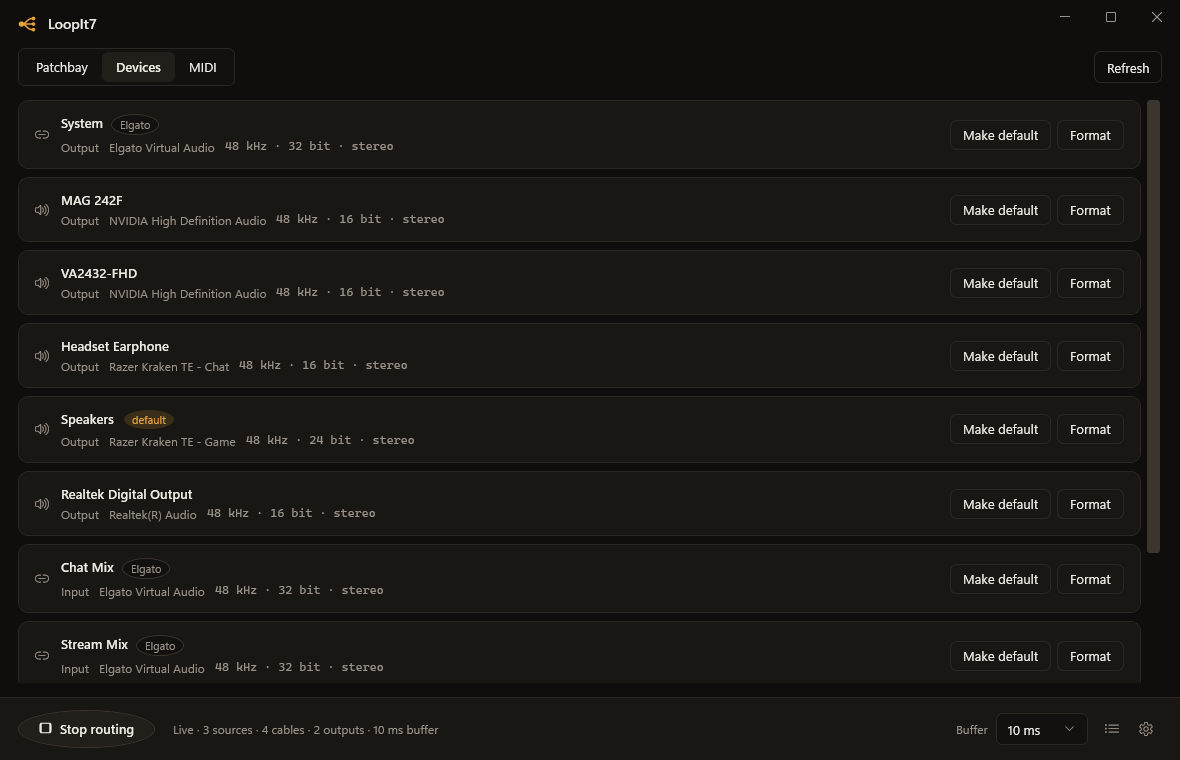
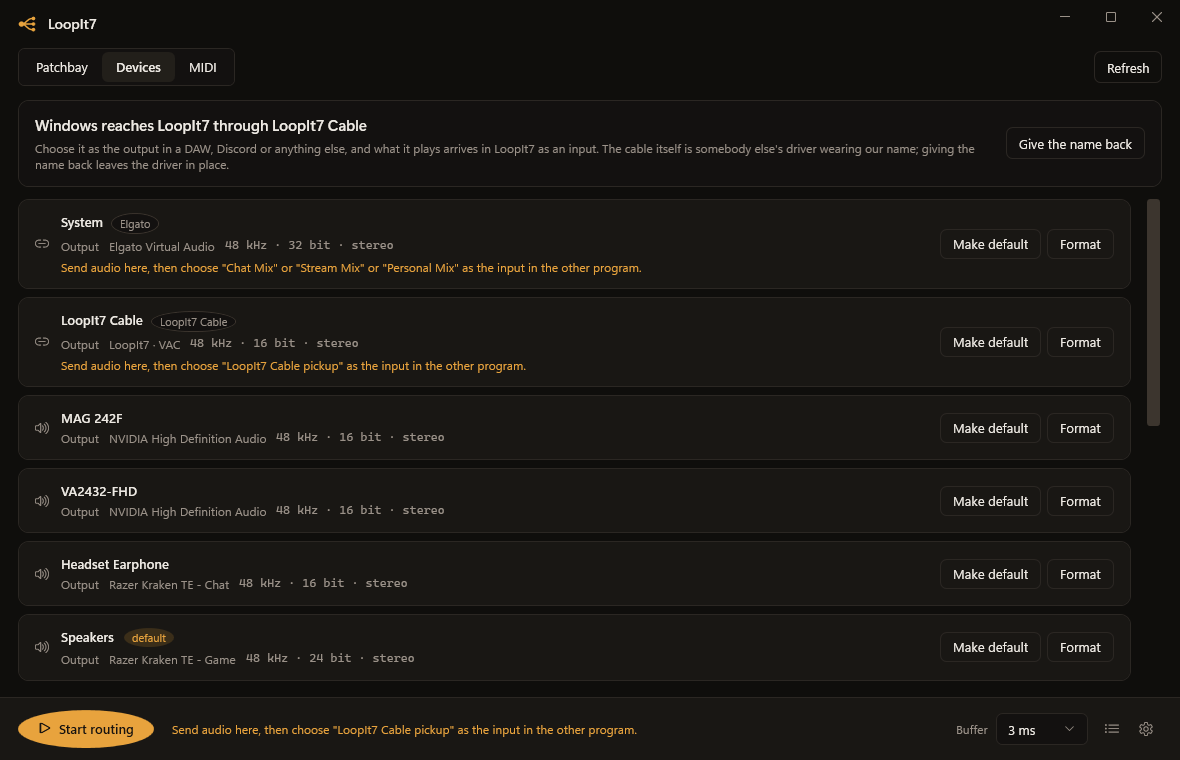
Fresh screenshots, and keep the user's default devices
New patchbay, devices and MIDI screenshots, taken from the Streaming setup
with the LoopIt7 Cable in place of the old virtual output patch.

VAC's installer made the new cable the default playback device, sending
everything the user played into the cable. Setup now runs LoopIt7
--save-defaults before it, and --name-cables puts back any default that moved
onto the cable, per role, leaving any other choice alone.

The Streaming setup now picks LoopIt7's own cable before anyone else's.

diff --git a/src/LoopIt7/App.xaml.cs b/src/LoopIt7/App.xaml.cs
@@ -40,6 +40,13 @@ public partial class App : Application
             return;
         }
 
+        if (e.Args.Any(a => string.Equals(a, "--save-defaults", StringComparison.OrdinalIgnoreCase)))
+        {
+            SaveDefaults();
+            Shutdown();
+            return;
+        }
+
         if (e.Args.Any(a => string.Equals(a, "--name-cables", StringComparison.OrdinalIgnoreCase)))
         {
             Shutdown(NameCables());
@@ -196,6 +203,10 @@ public partial class App : Application
                         settingsService.Save(settings);
                     }
 
+                    RestoreDefaults(settings.ClaimedCables
+                        .SelectMany(c => new[] { c.RenderEndpointId, c.CaptureEndpointId })
+                        .ToList());
+
                     System.IO.Directory.CreateDirectory(System.IO.Path.GetDirectoryName(report)!);
                     System.IO.File.WriteAllText(report, named);
                     return 0;
@@ -210,6 +221,83 @@ public partial class App : Application
         {
             // Setup must finish either way. The running app names the cable on first start.
             return 1;
+        }
+    }
+
+    private static string DefaultsFile => System.IO.Path.Combine(
+        Environment.GetFolderPath(Environment.SpecialFolder.ApplicationData), "LoopIt7", "defaults-before-cable.txt");
+
+    private static readonly (NAudio.CoreAudioApi.DataFlow Flow, NAudio.CoreAudioApi.Role Role)[] DefaultSlots =
+    [
+        (NAudio.CoreAudioApi.DataFlow.Render, NAudio.CoreAudioApi.Role.Console),
+        (NAudio.CoreAudioApi.DataFlow.Render, NAudio.CoreAudioApi.Role.Multimedia),
+        (NAudio.CoreAudioApi.DataFlow.Render, NAudio.CoreAudioApi.Role.Communications),
+        (NAudio.CoreAudioApi.DataFlow.Capture, NAudio.CoreAudioApi.Role.Console),
+        (NAudio.CoreAudioApi.DataFlow.Capture, NAudio.CoreAudioApi.Role.Multimedia),
+        (NAudio.CoreAudioApi.DataFlow.Capture, NAudio.CoreAudioApi.Role.Communications)
+    ];
+
+    private static string? DefaultId(NAudio.CoreAudioApi.MMDeviceEnumerator enumerator,
+        NAudio.CoreAudioApi.DataFlow flow, NAudio.CoreAudioApi.Role role)
+    {
+        try { return enumerator.GetDefaultAudioEndpoint(flow, role).ID; }
+        catch { return null; }
+    }
+
+    /// <summary>
+    /// Setup runs this just before the cable's own installer. A new cable can become the
+    /// default playback device, and then everything the user plays goes into the cable instead
+    /// of their speakers. Writing the defaults down first is what lets --name-cables put them
+    /// back. Opens no device and makes no sound.
+    /// </summary>
+    private static void SaveDefaults()
+    {
+        try
+        {
+            using var enumerator = new NAudio.CoreAudioApi.MMDeviceEnumerator();
+            var lines = DefaultSlots
+                .Select(s => (s, id: DefaultId(enumerator, s.Flow, s.Role)))
+                .Where(x => x.id is not null)
+                .Select(x => $"{(int)x.s.Flow}|{(int)x.s.Role}|{x.id}");
+
+            System.IO.Directory.CreateDirectory(System.IO.Path.GetDirectoryName(DefaultsFile)!);
+            System.IO.File.WriteAllLines(DefaultsFile, lines);
+        }
+        catch
+        {
+            // Setup carries on regardless; the worst case is a default the user sets back.
+        }
+    }
+
+    /// <summary>
+    /// Puts back any default device the cable's installer moved onto the cable. Only a role now
+    /// pointing at one of the cable's own ends is touched, so a choice the user made in the
+    /// meantime is left alone.
+    /// </summary>
+    private static void RestoreDefaults(IReadOnlyCollection<string> cableEnds)
+    {
+        try
+        {
+            if (!System.IO.File.Exists(DefaultsFile)) return;
+
+            using var enumerator = new NAudio.CoreAudioApi.MMDeviceEnumerator();
+            foreach (string line in System.IO.File.ReadAllLines(DefaultsFile))
+            {
+                var parts = line.Split('|', 3);
+                if (parts.Length != 3 || !int.TryParse(parts[0], out int flow) || !int.TryParse(parts[1], out int role)) continue;
+
+                string? now = DefaultId(enumerator, (NAudio.CoreAudioApi.DataFlow)flow, (NAudio.CoreAudioApi.Role)role);
+                if (now is null || string.Equals(now, parts[2], StringComparison.OrdinalIgnoreCase)) continue;
+                if (!cableEnds.Contains(now, StringComparer.OrdinalIgnoreCase)) continue;
+
+                Audio.EndpointControl.TrySetDefaultForRole(parts[2], role);
+            }
+
+            System.IO.File.Delete(DefaultsFile);
+        }
+        catch
+        {
+            // Best effort: the user can always pick their default again in Sound settings.
         }
     }
 

diff --git a/src/LoopIt7/Audio/EndpointControl.cs b/src/LoopIt7/Audio/EndpointControl.cs
@@ -20,6 +20,31 @@ public static class EndpointControl
 
     public static readonly int[] StandardBitDepths = [16, 24, 32];
 
+    /// <summary>
+    /// Sets the default for one role only (0 console, 1 multimedia, 2 communications). Used to
+    /// put back exactly what a cable installer moved, where a headset may be the default for
+    /// calls and speakers for everything else.
+    /// </summary>
+    public static bool TrySetDefaultForRole(string deviceId, int role)
+    {
+        try
+        {
+            var config = CreatePolicyConfig();
+            try
+            {
+                return config.SetDefaultEndpoint(deviceId, role) == 0;
+            }
+            finally
+            {
+                Marshal.ReleaseComObject(config);
+            }
+        }
+        catch
+        {
+            return false;
+        }
+    }
+
     public static bool TrySetDefault(string deviceId, out string? error)
     {
         try

diff --git a/src/LoopIt7/ViewModels/MainViewModel.cs b/src/LoopIt7/ViewModels/MainViewModel.cs
@@ -1248,7 +1248,12 @@ public sealed class MainViewModel : ObservableObject, IDisposable
             if (systemAudio.Id != primaryOutput.Id) TryConnect(desktop, monitor);
         }
 
-        var cable = OutputDevices.FirstOrDefault(VirtualCableService.IsVirtual);
+        // LoopIt7's own cable first: it is the one named for this, where somebody else's
+        // Elgato or VoiceMeeter device belongs to their own setup.
+        var cable = OutputDevices
+            .Where(VirtualCableService.IsVirtual)
+            .OrderByDescending(d => CableOwnership.IsOwned(_settings, d))
+            .FirstOrDefault();
         if (cable is not null)
         {
             var broadcast = AddDestination(cable);
